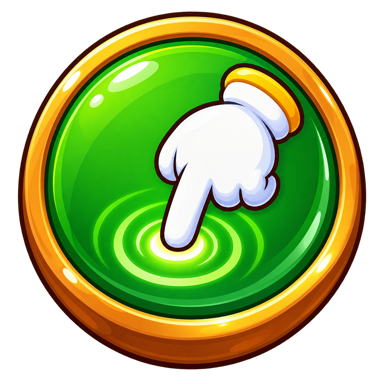
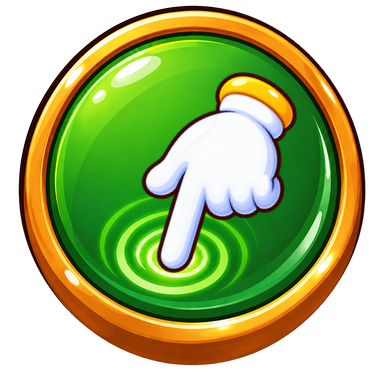
fix: se implementaron cambios de fondos

diff --git a/src/ui/ManoGuia.js b/src/ui/ManoGuia.js
@@ -1,0 +1,177 @@
+import Phaser from "phaser";
+
+/**
+ * Ayuda visual reutilizable para enseñar un toque o un deslizamiento.
+ * La posición del contenedor representa siempre la punta del dedo índice.
+ */
+export default class ManoGuia extends Phaser.GameObjects.Container {
+
+    constructor(scene, config = {}) {
+        super(scene, 0, 0);
+        scene.add.existing(this);
+
+        this.anchoVisual = config.anchoVisual ?? scene.scale.height * 0.16;
+        this.radioCirculo = config.radioCirculo ?? scene.scale.height * 0.055;
+        this.colorCirculo = config.colorCirculo ?? 0xFFE36B;
+        this.eventoOcultar = null;
+        this.cadenaMovimiento = null;
+
+        this.crearIndicador();
+        this.setDepth(config.depth ?? 100);
+        this.setVisible(false);
+    }
+
+    crearIndicador() {
+        this.circulo = this.scene.add.circle(
+            0,
+            0,
+            this.radioCirculo,
+            this.colorCirculo,
+            0.13
+        );
+        this.circulo.setStrokeStyle(
+            Math.max(5, this.scene.scale.height * 0.006),
+            this.colorCirculo,
+            0.95
+        );
+
+        this.punto = this.scene.add.circle(
+            0,
+            0,
+            this.radioCirculo * 0.24,
+            0xFFFFFF,
+            0.82
+        );
+
+        this.mano = this.scene.add.image(0, 0, "ManoIndicadoraTutorial");
+        // El origen coincide con la punta del índice del asset aprobado.
+        this.mano.setOrigin(0.17, 0.85);
+        this.escalaBase = this.anchoVisual / this.mano.width;
+        this.mano.setScale(this.escalaBase);
+
+        this.add([this.circulo, this.punto, this.mano]);
+    }
+
+    mostrarToque(x, y, opciones = {}) {
+        this.detenerAnimaciones();
+        this.setPosition(x, y).setAlpha(1).setVisible(true);
+        this.mano.setAngle(opciones.angulo ?? 0).setScale(this.escalaBase);
+        this.iniciarPulso();
+
+        this.tweenMano = this.scene.tweens.add({
+            targets: this.mano,
+            scaleX: this.escalaBase * 0.91,
+            scaleY: this.escalaBase * 0.91,
+            duration: opciones.duracionToqueMs ?? 330,
+            ease: "Sine.InOut",
+            yoyo: true,
+            repeat: -1
+        });
+
+        const duracionVisible = opciones.duracionVisibleMs ?? 2300;
+        if (duracionVisible > 0) {
+            this.eventoOcultar = this.scene.time.delayedCall(
+                duracionVisible,
+                () => this.ocultar()
+            );
+        }
+
+        return this;
+    }
+
+    mostrarDeslizamiento(inicio, fin, opciones = {}) {
+        this.detenerAnimaciones();
+        this.setPosition(inicio.x, inicio.y).setAlpha(0).setVisible(true);
+        this.mano
+            .setAngle(opciones.angulo ?? 0)
+            .setScale(this.escalaBase);
+        this.iniciarPulso();
+
+        this.cadenaMovimiento = this.scene.tweens.chain({
+            targets: this,
+            repeat: -1,
+            tweens: [
+                {
+                    x: inicio.x,
+                    y: inicio.y,
+                    alpha: 1,
+                    duration: opciones.duracionEntradaMs ?? 180,
+                    ease: "Sine.Out"
+                },
+                {
+                    x: fin.x,
+                    y: fin.y,
+                    duration: opciones.duracionMovimientoMs ?? 1050,
+                    ease: "Sine.InOut"
+                },
+                {
+                    alpha: 0,
+                    duration: opciones.duracionSalidaMs ?? 180,
+                    ease: "Sine.In"
+                },
+                {
+                    x: inicio.x,
+                    y: inicio.y,
+                    duration: 1,
+                    delay: opciones.pausaEntreRepeticionesMs ?? 420
+                }
+            ]
+        });
+
+        return this;
+    }
+
+    iniciarPulso() {
+        this.circulo.setScale(0.72).setAlpha(0.92);
+        this.punto.setScale(0.82).setAlpha(0.88);
+
+        this.tweenCirculo = this.scene.tweens.add({
+            targets: this.circulo,
+            scale: 1.18,
+            alpha: 0.18,
+            duration: 720,
+            ease: "Sine.Out",
+            repeat: -1
+        });
+        this.tweenPunto = this.scene.tweens.add({
+            targets: this.punto,
+            scale: 1.12,
+            alpha: 0.38,
+            duration: 430,
+            ease: "Sine.InOut",
+            yoyo: true,
+            repeat: -1
+        });
+    }
+
+    ocultar() {
+        this.detenerAnimaciones();
+        this.setVisible(false).setAlpha(1);
+        return this;
+    }
+
+    detenerAnimaciones() {
+        this.eventoOcultar?.remove(false);
+        this.eventoOcultar = null;
+        this.cadenaMovimiento?.stop();
+        this.cadenaMovimiento = null;
+
+        if (this.scene) {
+            this.scene.tweens.killTweensOf([
+                this,
+                this.mano,
+                this.circulo,
+                this.punto
+            ]);
+        }
+
+        this.mano?.setScale(this.escalaBase);
+        this.circulo?.setScale(1).setAlpha(1);
+        this.punto?.setScale(1).setAlpha(1);
+    }
+
+    destroy(fromScene) {
+        this.detenerAnimaciones();
+        super.destroy(fromScene);
+    }
+}

diff --git a/src/scenes/ClasificarSemillasScene.js b/src/scenes/ClasificarSemillasScene.js
@@ -4,6 +4,7 @@ import GestorAudioMinijuego from "../managers/GestorAudioMinijuego";
 import GestorTrayectoriaSemillas from "../managers/GestorTrayectoriaSemillas";
 import TutorialPanel from "../ui/TutorialPanel";
 import ResultPanel from "../ui/ResultPanel";
+import ManoGuia from "../ui/ManoGuia";
 import TableroClasificacionSemillas from "../ui/TableroClasificacionSemillas";
 import CanastaSemillas from "../ui/CanastaSemillas";
 import ProgressManager from "../managers/ProgressManager";
@@ -175,11 +176,38 @@ export default class ClasificarSemillasScene extends Phaser.Scene {
                 strokeThickness: Math.max(6, this.alto * 0.008)
             }
         ).setOrigin(0.5).setDepth(90);
+
+        const fichasPractica = this.tablero.fichas.flat().filter(Boolean);
+        const primeraFicha = fichasPractica[0];
+        const ultimaFicha = fichasPractica.at(-1);
+        if (primeraFicha && ultimaFicha) {
+            this.manoGuiaPractica = new ManoGuia(this, {
+                anchoVisual: this.alto * 0.14,
+                radioCirculo: this.tablero.tamanoCelda * 0.38,
+                depth: 95
+            });
+            this.manoGuiaPractica.mostrarDeslizamiento(
+                {
+                    x: this.tablero.x + primeraFicha.x,
+                    y: this.tablero.y + primeraFicha.y
+                },
+                {
+                    x: this.tablero.x + ultimaFicha.x,
+                    y: this.tablero.y + ultimaFicha.y
+                },
+                {
+                    duracionMovimientoMs: 1150,
+                    pausaEntreRepeticionesMs: 450
+                }
+            );
+        }
         this.gestorTrayectoria.setHabilitado(true);
     }
 
     iniciarNivelReal() {
         this.estadoNivel = "jugando";
+        this.manoGuiaPractica?.destroy(true);
+        this.manoGuiaPractica = null;
         this.textoPractica?.destroy();
         this.canastaDanada.setVisible(true);
         this.hud.setVisible(true);
@@ -211,6 +239,8 @@ export default class ClasificarSemillasScene extends Phaser.Scene {
     procesarTrayectoriaValida(seleccion) {
         if (this.estadoNivel === "practica") {
             this.estadoNivel = "resolviendo";
+            this.manoGuiaPractica?.destroy(true);
+            this.manoGuiaPractica = null;
             this.gestorTrayectoria.setHabilitado(false);
             this.tablero.setHabilitado(false);
             this.reproducirRecoleccion();
@@ -405,6 +435,7 @@ export default class ClasificarSemillasScene extends Phaser.Scene {
         document.addEventListener("visibilitychange", this.manejarVisibilidad);
         this.events.once(Phaser.Scenes.Events.SHUTDOWN, () => {
             document.removeEventListener("visibilitychange", this.manejarVisibilidad);
+            this.manoGuiaPractica?.destroy(true);
             this.gestorTrayectoria?.destroy();
             this.sonidoRecoleccion?.destroy();
             this.sonidoBomba?.destroy();

diff --git a/src/scenes/SeleccionarMadurasScene.js b/src/scenes/SeleccionarMadurasScene.js
@@ -3,6 +3,7 @@ import CacaoPod from "../objects/CacaoPod";
 import TutorialPanel from "../ui/TutorialPanel";
 import ResultPanel from "../ui/ResultPanel";
 import HudMinijuego from "../ui/HudMinijuego";
+import ManoGuia from "../ui/ManoGuia";
 import GestorAudioMinijuego from "../managers/GestorAudioMinijuego";
 import ProgressManager from "../managers/ProgressManager";
 
@@ -41,6 +42,11 @@ export default class SeleccionarMadurasScene extends Phaser.Scene {
         this.createTree();
         this.createHud();
         this.crearHudMinijuego();
+        this.manoGuia = new ManoGuia(this, {
+            anchoVisual: this.height * 0.15,
+            radioCirculo: this.height * 0.052,
+            depth: 90
+        });
         this.audio.ensureMusic();
         this.showTutorial();
         this.setupLifecycleEvents();
@@ -404,6 +410,7 @@ export default class SeleccionarMadurasScene extends Phaser.Scene {
         }
 
         this.lastInteractionAt = this.time.now;
+        this.manoGuia?.ocultar();
 
         if (pod.podState === "ripe") {
 
@@ -480,8 +487,13 @@ export default class SeleccionarMadurasScene extends Phaser.Scene {
         );
 
         if (availableRipePods.length > 0) {
-
-            Phaser.Utils.Array.GetRandom(availableRipePods).showHint();
+            const pod = Phaser.Utils.Array.GetRandom(availableRipePods);
+            pod.showHint();
+            this.manoGuia?.mostrarToque(
+                pod.x,
+                pod.y + pod.displayHeight * 0.48,
+                { duracionVisibleMs: 2400 }
+            );
 
         }
 
@@ -559,6 +571,7 @@ export default class SeleccionarMadurasScene extends Phaser.Scene {
     disablePods() {
 
         this.pods.forEach(pod => pod.disableInteractive());
+        this.manoGuia?.ocultar();
 
     }
 
@@ -581,6 +594,7 @@ export default class SeleccionarMadurasScene extends Phaser.Scene {
         this.events.once(Phaser.Scenes.Events.SHUTDOWN, () => {
             document.removeEventListener("visibilitychange", this.handleVisibilityChange);
             this.stopGameplayEvents();
+            this.manoGuia?.destroy(true);
             this.hud.destroy();
             this.audio.destroy();
         });

diff --git a/src/scenes/AbrirMazorcasScene.js b/src/scenes/AbrirMazorcasScene.js
@@ -4,6 +4,7 @@ import GestorAudioMinijuego from "../managers/GestorAudioMinijuego";
 import GestorCorteDeslizante from "../managers/GestorCorteDeslizante";
 import TutorialPanel from "../ui/TutorialPanel";
 import ResultPanel from "../ui/ResultPanel";
+import ManoGuia from "../ui/ManoGuia";
 import MazorcaVoladora from "../objects/MazorcaVoladora";
 import ProgressManager from "../managers/ProgressManager";
 import {
@@ -248,6 +249,16 @@ export default class AbrirMazorcasScene extends Phaser.Scene {
             ease: "Sine.InOut"
         });
 
+        this.manoGuiaPractica = new ManoGuia(this, {
+            anchoVisual: this.alto * 0.16,
+            radioCirculo: this.alto * 0.045,
+            depth: 74
+        });
+        this.manoGuiaPractica.mostrarDeslizamiento(inicio, fin, {
+            duracionMovimientoMs: 1050,
+            pausaEntreRepeticionesMs: 420
+        });
+
         this.gestorCorte.setHabilitado(true);
     }
 
@@ -372,6 +383,8 @@ export default class AbrirMazorcasScene extends Phaser.Scene {
         this.estadoNivel = "resolviendoPractica";
         this.gestorCorte.setHabilitado(false);
         this.tweenGuiaPractica?.stop();
+        this.manoGuiaPractica?.destroy(true);
+        this.manoGuiaPractica = null;
         this.guiaPractica?.destroy();
         this.textoPractica?.destroy();
         this.guiaPractica = null;
@@ -632,6 +645,7 @@ export default class AbrirMazorcasScene extends Phaser.Scene {
         this.events.once(Phaser.Scenes.Events.SHUTDOWN, () => {
             document.removeEventListener("visibilitychange", this.manejarVisibilidad);
             this.detenerApariciones();
+            this.manoGuiaPractica?.destroy(true);
             this.gestorCorte?.destroy();
             this.audio?.destroy();
         });

diff --git a/src/scenes/PreloadScene.js b/src/scenes/PreloadScene.js
@@ -61,6 +61,7 @@ export default class PreloadScene extends Phaser.Scene {
         this.load.image("CorazonVacio", "images/ui/CorazonVacio.png");
         this.load.image("PanelTemporizador", "images/ui/PanelTemporizador.png");
         this.load.image("btnRepetirAudio", "images/ui/btnRepetirAudio.png");
+        this.load.image("ManoIndicadoraTutorial", "images/ui/ManoIndicadoraTutorial.png");
         this.load.image("btnIconoMazorcasListas", "images/buttons/btnIconoMazorcasListas.png");
 
         // Módulo Cosecha: Nivel 2, corte cuidadoso
